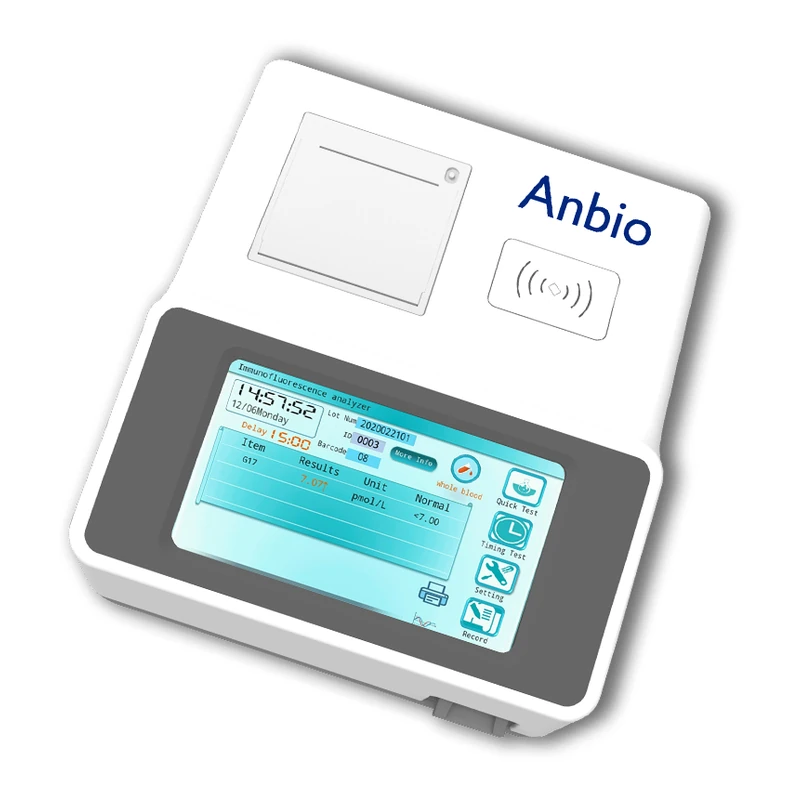
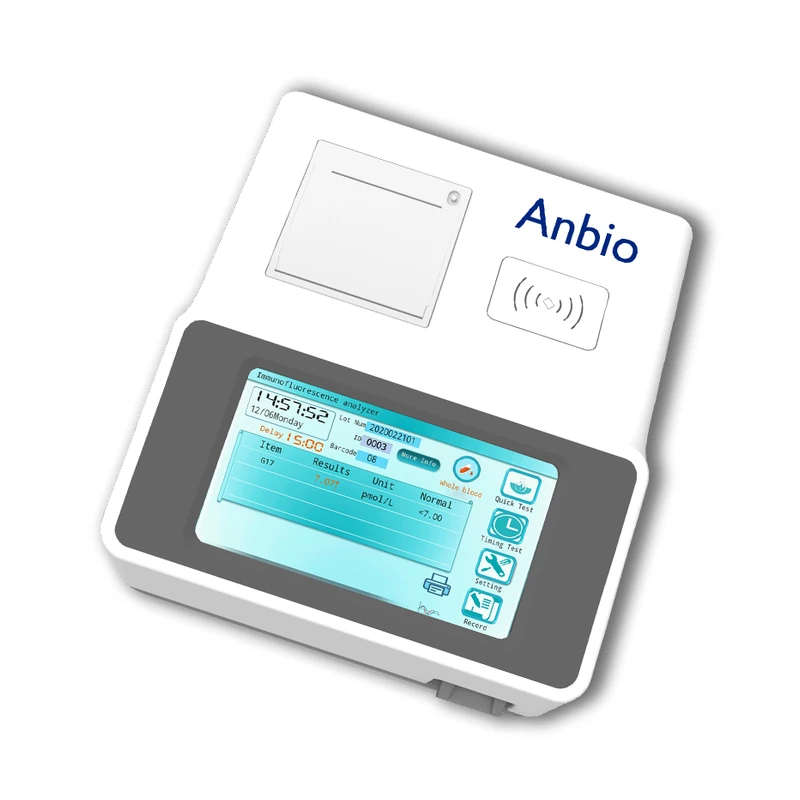
feat(products): improve cross-device responsiveness and add image processing pipeline

diff --git a/components/ProductSpecModal.tsx b/components/ProductSpecModal.tsx
@@ -120,42 +120,44 @@ export default function ProductSpecModal({ product, onClose }: ProductSpecModalP
               </span>
             </div>
 
-            <div className="flex items-center gap-2 flex-wrap sm:flex-nowrap">
+            <div className="flex items-center gap-2 flex-wrap sm:flex-nowrap w-full sm:w-auto">
               <a
                 href={waUrl}
                 target="_blank"
                 rel="noopener noreferrer"
-                className="inline-flex items-center justify-center gap-2 rounded-lg bg-emerald-600 px-4 py-2.5 text-xs sm:text-sm font-bold text-white shadow-xs hover:bg-emerald-700 transition-colors"
+                className="inline-flex items-center justify-center gap-2 rounded-lg bg-emerald-600 px-4 py-2.5 text-xs sm:text-sm font-bold text-white shadow-xs hover:bg-emerald-700 transition-colors w-full sm:w-auto min-h-[42px]"
               >
                 <MessageSquare className="h-4 w-4" />
                 <span>Buy via WhatsApp</span>
               </a>
 
-              <a
-                href={`tel:${SITE_CONFIG.telephone}`}
-                className="inline-flex items-center justify-center gap-1.5 rounded-lg border border-slate-300 bg-white px-3 py-2 text-xs font-bold text-slate-700 hover:bg-slate-50 transition-colors"
-              >
-                <Phone className="h-3.5 w-3.5 text-blue-700" />
-                <span>Call Engineer</span>
-              </a>
+              <div className="flex items-center gap-2 w-full sm:w-auto">
+                <a
+                  href={`tel:${SITE_CONFIG.telephone}`}
+                  className="inline-flex flex-1 sm:flex-initial items-center justify-center gap-1.5 rounded-lg border border-slate-300 bg-white px-3 py-2 text-xs font-bold text-slate-700 hover:bg-slate-50 transition-colors min-h-[38px]"
+                >
+                  <Phone className="h-3.5 w-3.5 text-blue-700" />
+                  <span>Call Engineer</span>
+                </a>
 
-              <button
-                onClick={copyProductLink}
-                title="Copy direct product link"
-                className="inline-flex items-center gap-1.5 rounded-lg border border-slate-200 bg-white px-3 py-2 text-xs font-semibold text-slate-600 hover:text-slate-900 hover:bg-slate-50 transition-colors"
-              >
-                {copied ? (
-                  <>
-                    <CheckCheck className="h-3.5 w-3.5 text-emerald-600" />
-                    <span className="text-emerald-700">Copied</span>
-                  </>
-                ) : (
-                  <>
-                    <Copy className="h-3.5 w-3.5" />
-                    <span>Copy Link</span>
-                  </>
-                )}
-              </button>
+                <button
+                  onClick={copyProductLink}
+                  title="Copy direct product link"
+                  className="inline-flex flex-1 sm:flex-initial items-center justify-center gap-1.5 rounded-lg border border-slate-200 bg-white px-3 py-2 text-xs font-semibold text-slate-600 hover:text-slate-900 hover:bg-slate-50 transition-colors min-h-[38px]"
+                >
+                  {copied ? (
+                    <>
+                      <CheckCheck className="h-3.5 w-3.5 text-emerald-600" />
+                      <span className="text-emerald-700">Copied</span>
+                    </>
+                  ) : (
+                    <>
+                      <Copy className="h-3.5 w-3.5" />
+                      <span>Copy Link</span>
+                    </>
+                  )}
+                </button>
+              </div>
             </div>
           </div>
 

diff --git a/components/GallerySection.tsx b/components/GallerySection.tsx
@@ -179,13 +179,13 @@ export default function GallerySection() {
                 </span>
 
                 {/* Location Overlay */}
-                <div className="absolute bottom-2.5 left-2.5 right-2.5 flex items-center justify-between text-xs text-white bg-slate-950/80 px-2.5 py-1 rounded">
-                  <div className="flex items-center gap-1 font-medium">
-                    <MapPin className="h-3 w-3 text-red-400" />
-                    <span>{item.location}</span>
+                <div className="absolute bottom-2.5 left-2.5 right-2.5 flex items-center justify-between text-xs text-white bg-slate-950/80 px-2.5 py-1 rounded gap-2">
+                  <div className="flex items-center gap-1 font-medium min-w-0">
+                    <MapPin className="h-3 w-3 text-red-400 shrink-0" />
+                    <span className="truncate">{item.location}</span>
                   </div>
-                  <div className="flex items-center gap-1 font-mono text-[11px] text-slate-300">
-                    <Calendar className="h-3 w-3 text-blue-300" />
+                  <div className="flex items-center gap-1 font-mono text-[11px] text-slate-300 shrink-0">
+                    <Calendar className="h-3 w-3 text-blue-300 shrink-0" />
                     <span>{item.date}</span>
                   </div>
                 </div>

diff --git a/scripts/optimize_product_images.py b/scripts/optimize_product_images.py
@@ -1,16 +1,21 @@
 import os
+import sys
 import re
 from pathlib import Path
 from PIL import Image
 
 WORKSPACE_DIR = Path(r"c:\Users\Alekoo\Desktop\medwise")
-RAW_DIR = WORKSPACE_DIR / "public" / "images" / "products-raw"
+RAW_DIRS = [
+    WORKSPACE_DIR / "products-raw",
+    WORKSPACE_DIR / "public" / "images" / "products-raw"
+]
 OUTPUT_DIR = WORKSPACE_DIR / "public" / "images" / "products"
 PRODUCTS_FILE = WORKSPACE_DIR / "lib" / "products.ts"
 
 TARGET_SIZE = (800, 800)
 
 PRODUCTS = [
+    # Hematology
     {"id": "mindray-bc-10", "patterns": ["bc-10", "bc10", "mindray-bc-10"]},
     {"id": "zybio-z3", "patterns": ["z3", "zybio-z3"]},
     {"id": "dymind-dh36", "patterns": ["dh36", "dh-36", "dymind-dh36"]},
@@ -18,30 +23,40 @@ PRODUCTS = [
     {"id": "mindray-bc-5000", "patterns": ["bc-5000", "bc5000", "mindray-bc-5000"]},
     {"id": "zybio-z50", "patterns": ["z50", "zybio-z50"]},
     {"id": "dymind-df-55", "patterns": ["df-55", "df55", "dymind-df-55"]},
+    
+    # Biochemistry
     {"id": "icubio-ichem-535", "patterns": ["ichem-535", "ichem535", "535", "icubio"]},
     {"id": "dymind-dp-c16", "patterns": ["dp-c16", "dpc16", "c16"]},
     {"id": "seamaty-sd-1", "patterns": ["sd-1", "sd1", "seamaty"]},
     {"id": "zybio-exc-200", "patterns": ["exc-200", "exc200"]},
     {"id": "bioelab-as-160", "patterns": ["as-160", "as160"]},
     {"id": "mindray-bs-240", "patterns": ["bs-240", "bs240", "mindray-bs-240"]},
+    
+    # Immunoassay
     {"id": "finecare-fs-113", "patterns": ["finecare", "fs-113", "fs113"]},
-    {"id": "anbio-fia-analyzer", "patterns": ["anbio", "fia"]},
+    {"id": "anbio-fia-analyzer", "patterns": ["anbio", "fia", "af-100", "af100"]},
     {"id": "getein-1160", "patterns": ["getein", "1160"]},
-    {"id": "yxz-microscope", "patterns": ["yxz", "yxz-200b", "entry-microscope"]},
+    
+    # Microscopes
+    {"id": "yxz-microscope", "patterns": ["yxz", "xsz", "yxz-200b", "xsz-microscope", "entry-microscope"]},
     {"id": "olympus-cx-21", "patterns": ["cx21", "cx-21", "olympus-cx21"]},
     {"id": "olympus-cx-23", "patterns": ["cx23", "cx-23", "olympus-cx23"]},
-    {"id": "laboratory-incubator", "patterns": ["incubator"]},
-    {"id": "clinical-centrifuges", "patterns": ["centrifuge", "centrifuges"]},
-    {"id": "roller-mixer", "patterns": ["roller", "mixer"]},
-    {"id": "vdrl-shaker", "patterns": ["vdrl", "shaker"]},
-    {"id": "hot-air-oven", "patterns": ["oven", "hot-air"]},
-    {"id": "laboratory-fridge", "patterns": ["fridge", "refrigerator"]},
-    {"id": "micropipettes", "patterns": ["pipette", "pipettes", "micropipette"]},
-    {"id": "microscope-slides", "patterns": ["slides", "microscope-slide"]},
-    {"id": "cover-slips", "patterns": ["cover-slip", "coverslip", "coverslips"]},
-    {"id": "yellow-tips", "patterns": ["yellow-tips", "pipette-tips", "tips"]},
-    {"id": "vacutainer-tubes", "patterns": ["vacutainer", "blood-tubes", "tubes"]},
-    {"id": "medical-gloves", "patterns": ["gloves", "latex", "nitrile"]}
+    
+    # Lab Equipment (Currently Placeholders)
+    {"id": "laboratory-incubator", "patterns": ["incubator", "dhp", "dnp", "lab-incubator", "bacteriological-incubator"]},
+    {"id": "clinical-centrifuges", "patterns": ["centrifuge", "centrifuges", "80-2c", "802c", "td4", "benchtop-centrifuge"]},
+    {"id": "roller-mixer", "patterns": ["roller", "mixer", "tube-roller", "roller-mixer", "tr-6", "tr6"]},
+    {"id": "vdrl-shaker", "patterns": ["vdrl", "shaker", "orbital-shaker", "vr-100", "vr100"]},
+    {"id": "hot-air-oven", "patterns": ["oven", "hot-air", "hotair", "drying-oven", "grx", "dhg"]},
+    {"id": "laboratory-fridge", "patterns": ["fridge", "refrigerator", "mpc", "yc", "lab-fridge", "medical-fridge"]},
+    {"id": "micropipettes", "patterns": ["pipette", "pipettes", "micropipette", "micropipettes"]},
+    
+    # Consumables (Currently Placeholders)
+    {"id": "microscope-slides", "patterns": ["slides", "microscope-slide", "microscope-slides", "7101", "7102", "glass-slides"]},
+    {"id": "cover-slips", "patterns": ["cover-slip", "coverslip", "cover-slips", "coverslips", "cover-glass", "cover-glasses"]},
+    {"id": "yellow-tips", "patterns": ["yellow-tips", "yellow-tip", "pipette-tips", "tips-200", "yellowtips"]},
+    {"id": "vacutainer-tubes", "patterns": ["vacutainer", "blood-tubes", "tubes", "vacutainer-tubes", "collection-tubes", "blood-collection"]},
+    {"id": "medical-gloves", "patterns": ["gloves", "glove", "latex-gloves", "nitrile-gloves", "medical-gloves", "exam-gloves"]}
 ]
 
 def clean_name(filename):
@@ -74,7 +89,7 @@ def process_image(src_path, dest_path):
         # Calculate aspect ratio preserving thumbnail
         img.thumbnail((TARGET_SIZE[0] - 40, TARGET_SIZE[1] - 40), Image.Resampling.LANCZOS)
         
-        # Create white background canvas
+        # Create clean white or transparent canvas
         canvas = Image.new("RGBA", TARGET_SIZE, (255, 255, 255, 0))
         
         # Paste centered
@@ -83,71 +98,66 @@ def process_image(src_path, dest_path):
         canvas.paste(img, (offset_x, offset_y), img)
         
         # Save as WebP
-        canvas.save(dest_path, "WEBP", quality=90, method=6)
-        print(f"Processed: {src_path.name} -> {dest_path.name}")
+        canvas.save(dest_path, "WEBP", quality=88, method=4)
+        print(f"Processed: {src_path.name} -> {dest_path.name}", flush=True)
 
 def update_products_catalog(matched_map):
     if not PRODUCTS_FILE.exists():
         return
     content = PRODUCTS_FILE.read_text(encoding="utf-8")
-    updated = False
+    updated_count = 0
     
     for product_id, img_rel_path in matched_map.items():
-        # Check if already has image
-        id_pattern = rf"(id:\s*'{product_id}',\s*\n)((\s*image:\s*'[^']+',\s*\n)?)"
-        replacement = rf"\1    image: '{img_rel_path}',\n"
         if f"id: '{product_id}'," in content:
-            # Check if image field exists for this product
-            search_regex = rf"(id:\s*'{product_id}',\s*\n)(\s*image:\s*'[^']+',\s*\n)?"
-            match = re.search(search_regex, content)
+            pattern = re.compile(rf"(id:\s*'{re.escape(product_id)}',[\s\S]*?)(    description:)")
+            match = pattern.search(content)
             if match:
-                if "image:" not in match.group(0):
-                    content = re.sub(
-                        rf"(id:\s*'{product_id}',\s*\n)",
-                        rf"\1    image: '{img_rel_path}',\n",
-                        content,
-                        count=1
-                    )
-                    updated = True
+                block_text = match.group(1)
+                if "image:" in block_text:
+                    new_block = re.sub(r"image:\s*'[^']+',?\s*\n", f"image: '{img_rel_path}',\n", block_text)
                 else:
-                    # Update existing
-                    content = re.sub(
-                        rf"(id:\s*'{product_id}',\s*\n\s*image:\s*)'[^']+'",
-                        rf"\1'{img_rel_path}'",
-                        content,
-                        count=1
-                    )
-                    updated = True
+                    new_block = block_text + f"    image: '{img_rel_path}',\n"
+                content = content[:match.start(1)] + new_block + content[match.start(2):]
+                updated_count += 1
+                print(f"Linked {product_id} -> {img_rel_path} in lib/products.ts")
                     
-    if updated:
+    if updated_count > 0:
         PRODUCTS_FILE.write_text(content, encoding="utf-8")
-        print("Updated lib/products.ts with image paths successfully!")
+        print(f"Successfully updated {updated_count} products in lib/products.ts")
 
 def main():
-    if not RAW_DIR.exists():
-        print(f"Directory {RAW_DIR} does not exist.")
-        return
-        
-    raw_files = [f for f in RAW_DIR.iterdir() if f.is_file() and f.suffix.lower() in [".png", ".jpg", ".jpeg", ".webp", ".jhpg", ".jfif"]]
+    raw_files = []
+    for raw_dir in RAW_DIRS:
+        if raw_dir.exists():
+            files = [f for f in raw_dir.iterdir() if f.is_file() and f.suffix.lower() in [".png", ".jpg", ".jpeg", ".webp", ".jfif", ".tiff", ".bmp"]]
+            if files:
+                print(f"Found {len(files)} files in {raw_dir}")
+                raw_files.extend(files)
+                
     if not raw_files:
-        print(f"No raw images found in {RAW_DIR}")
+        print(f"No raw images found in any of: {[str(d) for d in RAW_DIRS]}")
         return
         
-    print(f"Found {len(raw_files)} files in {RAW_DIR}")
+    force_all = "--all" in sys.argv
     matched_map = {}
     
     for file in raw_files:
         product_id = match_product(file.name)
         if product_id:
             dest_file = OUTPUT_DIR / f"{product_id}.webp"
-            process_image(file, dest_file)
+            if force_all or not dest_file.exists() or file.stat().st_mtime > dest_file.stat().st_mtime:
+                process_image(file, dest_file)
+            else:
+                print(f"Skipping (already up-to-date): {product_id}.webp", flush=True)
             matched_map[product_id] = f"/images/products/{product_id}.webp"
         else:
-            # Keep original slug as filename
             slug = re.sub(r'[^a-z0-9\-]', '-', Path(file.name).stem.lower())
             dest_file = OUTPUT_DIR / f"{slug}.webp"
-            process_image(file, dest_file)
-            print(f"Warning: No automatic catalog match for '{file.name}', saved as '{slug}.webp'")
+            if force_all or not dest_file.exists() or file.stat().st_mtime > dest_file.stat().st_mtime:
+                process_image(file, dest_file)
+            else:
+                print(f"Skipping (already up-to-date): {slug}.webp", flush=True)
+            print(f"Warning: No automatic catalog match for '{file.name}', saved as '{slug}.webp'", flush=True)
             
     if matched_map:
         update_products_catalog(matched_map)

diff --git a/scripts/scan_products.py b/scripts/scan_products.py
@@ -1,0 +1,90 @@
+import re
+import sys
+from pathlib import Path
+
+content = Path('lib/products.ts').read_text(encoding='utf-8')
+
+# Extract PRODUCTS_CATALOG array
+catalog_match = re.search(r'export const PRODUCTS_CATALOG:\s*Product\[\]\s*=\s*\[([\s\S]*?)\];', content)
+if not catalog_match:
+    print("Could not find PRODUCTS_CATALOG in lib/products.ts")
+    sys.exit(1)
+
+catalog_text = catalog_match.group(1)
+
+# Split into individual product blocks
+blocks = re.split(r'\n\s*\{\s*\n\s*id:\s*\'', catalog_text)[1:]
+
+public_dir = Path('public')
+
+has_image = []
+missing_image = []
+
+categories = {}
+
+for block in blocks:
+    m_id = re.match(r'^([^\']+)\'', block)
+    pid = m_id.group(1) if m_id else 'unknown'
+    
+    m_name = re.search(r'name:\s*\'([^\']+)\'', block)
+    name = m_name.group(1) if m_name else ''
+    
+    m_cat = re.search(r'category:\s*\'([^\']+)\'', block)
+    cat = m_cat.group(1) if m_cat else ''
+
+    m_subcat = re.search(r'subcategory:\s*\'([^\']+)\'', block)
+    subcat = m_subcat.group(1) if m_subcat else ''
+    
+    m_model = re.search(r'model:\s*\'([^\']+)\'', block)
+    model = m_model.group(1) if m_model else ''
+
+    m_brand = re.search(r'brand:\s*\'([^\']+)\'', block)
+    brand = m_brand.group(1) if m_brand else ''
+
+    m_img = re.search(r'image:\s*\'([^\']+)\'', block)
+    
+    item = {
+        'id': pid,
+        'name': name,
+        'brand': brand,
+        'model': model,
+        'category': cat,
+        'subcategory': subcat,
+    }
+
+    if m_img:
+        img_path = m_img.group(1)
+        local_file = public_dir / img_path.lstrip('/')
+        if local_file.exists():
+            item['image'] = img_path
+            item['size'] = local_file.stat().st_size
+            has_image.append(item)
+        else:
+            item['image_missing_path'] = img_path
+            missing_image.append(item)
+    else:
+        missing_image.append(item)
+
+print(f"TOTAL_PRODUCTS={len(blocks)}")
+print(f"WITH_IMAGE={len(has_image)}")
+print(f"MISSING_IMAGE={len(missing_image)}")
+
+print("\n--- PRODUCTS WITH MISSING IMAGES (PLACEHOLDERS) ---")
+by_cat = {}
+for p in missing_image:
+    by_cat.setdefault(p['category'], []).append(p)
+
+for cat, items in by_cat.items():
+    print(f"\n### Category: {cat.upper()} ({len(items)} items)")
+    for idx, item in enumerate(items, 1):
+        clean_model = item['model'].encode('ascii', 'replace').decode('ascii')
+        clean_name = item['name'].encode('ascii', 'replace').decode('ascii')
+        print(f"  {idx}. ID: {item['id']}")
+        print(f"     Name: {clean_name}")
+        print(f"     Brand / Model: {item['brand']} | {clean_model}")
+        print(f"     Subcategory: {item['subcategory']}")
+        print(f"     Suggested file name: {item['id']}.png (or .jpg, .webp)")
+
+print("\n--- PRODUCTS ALREADY WITH ACTIVE IMAGES ---")
+for p in has_image:
+    print(f"  - [{p['category']}] {p['id']} -> {p['image']}")
